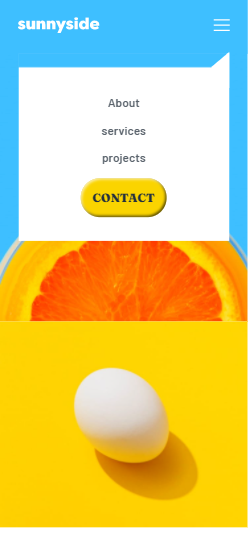
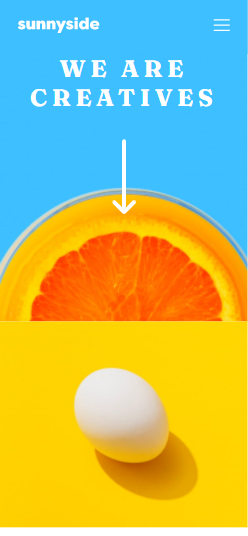
mobile nav active screenshot

Changed region(s): [[0.0565, 0.0896, 0.9315, 0.4478]]

diff --git a/README-template.md b/README-template.md
@@ -23,7 +23,7 @@ Users should be able to:
 
 ### Screenshot
 ![](./images/sunnyside-mobile.png)
-![](./images/sunnyside-mobile.png)
+![](./images/sunnyside-mobile-nav.png)
 
 ### Links
 
